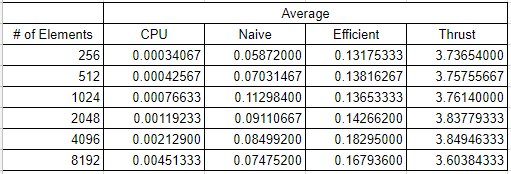
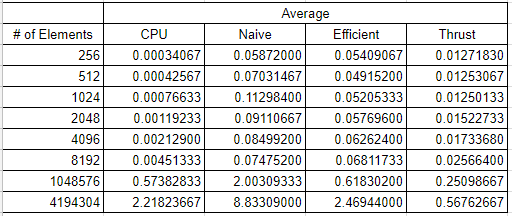
readme updated (and timing fixed)

diff --git a/src/main.cpp b/src/main.cpp
@@ -13,7 +13,7 @@
 #include <stream_compaction/thrust.h>
 #include "testing_helpers.hpp"
 
-const int SIZE = 1 << 8; // feel free to change the size of array
+const long SIZE = 1 << 20; // feel free to change the size of array
 const int NPOT = SIZE - 3; // Non-Power-Of-Two
 int a[SIZE], b[SIZE], c[SIZE];
 
@@ -66,6 +66,13 @@ int main(int argc, char* argv[]) {
     //printArray(SIZE, c, true);
     printCmpResult(SIZE, b, c);
 
+	zeroArray(SIZE, c);
+	printDesc("work-efficient scan, power-of-two");
+	StreamCompaction::Efficient::scan(SIZE, c, a);
+	printElapsedTime(StreamCompaction::Efficient::timer().getGpuElapsedTimeForPreviousOperation(), "(CUDA Measured)");
+	//printArray(SIZE, c, true);
+	printCmpResult(SIZE, b, c);
+
     zeroArray(SIZE, c);
     printDesc("work-efficient scan, non-power-of-two");
     StreamCompaction::Efficient::scan(NPOT, c, a);
@@ -73,6 +80,8 @@ int main(int argc, char* argv[]) {
     //printArray(NPOT, c, true);
     printCmpResult(NPOT, b, c);
 
+
+	StreamCompaction::Thrust::scan(SIZE, c, a);
     zeroArray(SIZE, c);
     printDesc("thrust scan, power-of-two");
     StreamCompaction::Thrust::scan(SIZE, c, a);

diff --git a/README.md b/README.md
@@ -13,12 +13,76 @@ The goal of this project was to learn, implement, and compare various algorithms
 * GPU (parallel) implementation with Naive Scan Algorithm
 * GPU (parallel) implementation wtih Work Efficient Scan Algorithm
 
+First, let's quickly go over the implementational details of each algorithm:
+
+Scan:
+A scan of an input array is an output array is such that each array indice's element contains the sum of all previous indicie's elements.
+
+Stream Compaction:
+Performing Stream Compaction on an input array filters out all array elements that do not fit a given criteria. In our case, all 0's get filtered out.
+
+CPU Inclusive/Exclusive Scan:
+
+This one is simple:\
+For an inclusive scan: \
+Start a sum at 0, and for each array element, add the value to the sum and enter the new sum into the same index in the output array. \
+For an exclusive scan: \
+Shift every value from the inclusive scan to the right and fill the first element with 0 (or the appropriate identity value).
+
+CPU Stream Compaction:
+
+Keep a counter of how many elements are filtered into the output array starting with 0. \
+Step through the input array:\
+If the element meets the criteria, add it to the output array as the "count"th index, and increment the counter.
+If the element doesn't meet the criteria, skip it.
+
+GPU Naive Scan Algorithm:
+
+This algorithm requires an extra buffer to avoid overriding data needed for other threads in the same iteration. This algorithm requires log(n) iterations.\
+Every iteration, every element in array index greater than or equal to 2^d where d is the iteration depth, the new element at array index is computed by adding the element in the same index and the index 2^d indices before it.
+
+A helpful diagram illustrating the algorithm:
+![](img/naive_example.PNG)
+
+
+GPU Work Efficient Scan Algorithm:
+
+The Work Efficient Scan can be performed in place on the input array because the array element a thread is writing to will never be accessed by another thread in the same iteration.\
+There are two phases to a Work Efficient Scan Algorithm: the Upsweep, and the Downsweep.
+
+During the upsweep, array elements at intervals 2^(d+1) (say, index k) are computed as arr[k] + arr[k - 2^d].
+
+![](img/upsweep_example.PNG)
+
+Before the downsweep, (n-1)th element is 0'd\
+For the downsweep, instead of increasing the depth level from 0  to log(n) - 1, decrement the depth from log(n) - 1 to 0; (reverse the order of the depth in the diagram). For each array elements at intervals 2^(d+1) (say, index k):
+arr[k - 2^d] = arr[k] and arr[k] = arr[k] + arr[k - 2^d].
+
+![](img/downsweep_example.PNG)
+
+GPU Stream Compaction:
+
+We can use the scan algorithm as a part of our stream compaction algorithm (this can also be done on the cpu but, it's much more interesting in parallel).
+
+First, create a boolean array the same size as the input array. For each element that meets the stream compaction criteria, set the corresponding boolean array element to 1, and set 0 for all those that do not meet the critera.
+
+Then, perform a scan on the boolean array and store that result in a separate array. 
+
+Finally, for each array element that meets the stream compaction criteria (check the boolean array), look up the value that corresponds in the scan result array and store the element in the output array spot from the scan result array.
+
+![](img/compact_example.PNG)
+
+
+
 The results section of this write-up will compare the performance of the different Scan algorithms.
 
 
 **Results**
  
  Three trials were recorded for each algorithm.
+ My GPU fails to run with array sizes over 2^22 (4194304), so I calculated a couple measurements to test the greatest range possible.
+
+ All trials are ran with block size of 128.
 
 ![](img/cpu_table.PNG)![](img/naive_table.PNG)![](img/efficient_table.PNG)![](img/thrust_table.PNG)
 
@@ -26,16 +90,13 @@ If we average the three trials from each implementation, we get the graph below:
 
 ![](img/average_table.PNG)
 
-
 This section will compare the CPU Scan implementation to the Naive GPU implementation, the Efficient GPU implementation, and the Thrust implementation.
+
+First, let's look at the plot up to 2^10 for a tighter fit.
 
 ![](img/all_graph.PNG)
 
 If we plot the four implementations against each other, we don't get much information as to how each function grows.
-
-Removing the Thrust data points from the graph allows a clearer picture of how each implementation grows as the number of array elements increases.
-
-![](img/no_thrust_graph.PNG)
 
 The growth in CPU runtime is still hard to see at this graph scale.
 
@@ -43,6 +104,26 @@ If we plot just the CPU implementation's data, we can understand that the runtim
 
 ![](img/cpu_graph.PNG)
 
+If we want to predict how the implementations grow as the array size approaches infinity (given that GPU memory constraints are not an issue), we can plot the 2^20 and 2^22 data for a (somewhat misleading) graph:
+
+![](img/all_graph_4M.PNG)
 
 **Conclusion and Evaluation**
 
+My CPU implementation ended up being faster than both GPU algorithms I implemented in this project. \
+It seems that there is a huge bottleneck in global memory access.\
+Though the Naive and Work Efficient implementations have fairly similar overall runtimes for array sizes under 10,0000, it is clear that the Work Efficient performs better for large array sizes.
+
+Overall, I'm not terribly surprised by the results of this project because there are very few low-cost arithmetic operations. A bulk of the latency comes from memory access.
+
+Optimizations (minor):
+* For GPU implementations, I made sure to only call the necessary number of threads. Checking that operations are done on the correct array indicies (by the proper 2^d offset) is done implicitly by calling only the number of threads that will have array index values written to and calculating the proper index within the kernel
+
+Potential Future Optimizations:
+* Using Shared Memory instead of global memory would allow for quicker array access (that has to happen multiple times per thread). The main drawback would be that we'd be restricted by the number of threads available on a block. However, arrays can be split up and scanned separately and later combined for a total scan. 
+
+The result of my output dialogue looks like this:
+![](img/console_log1.PNG)
+![](img/console_log2.PNG)
+
+(note: to run stream compaction with scan, make sure that only one of the two functions called timer.start())
